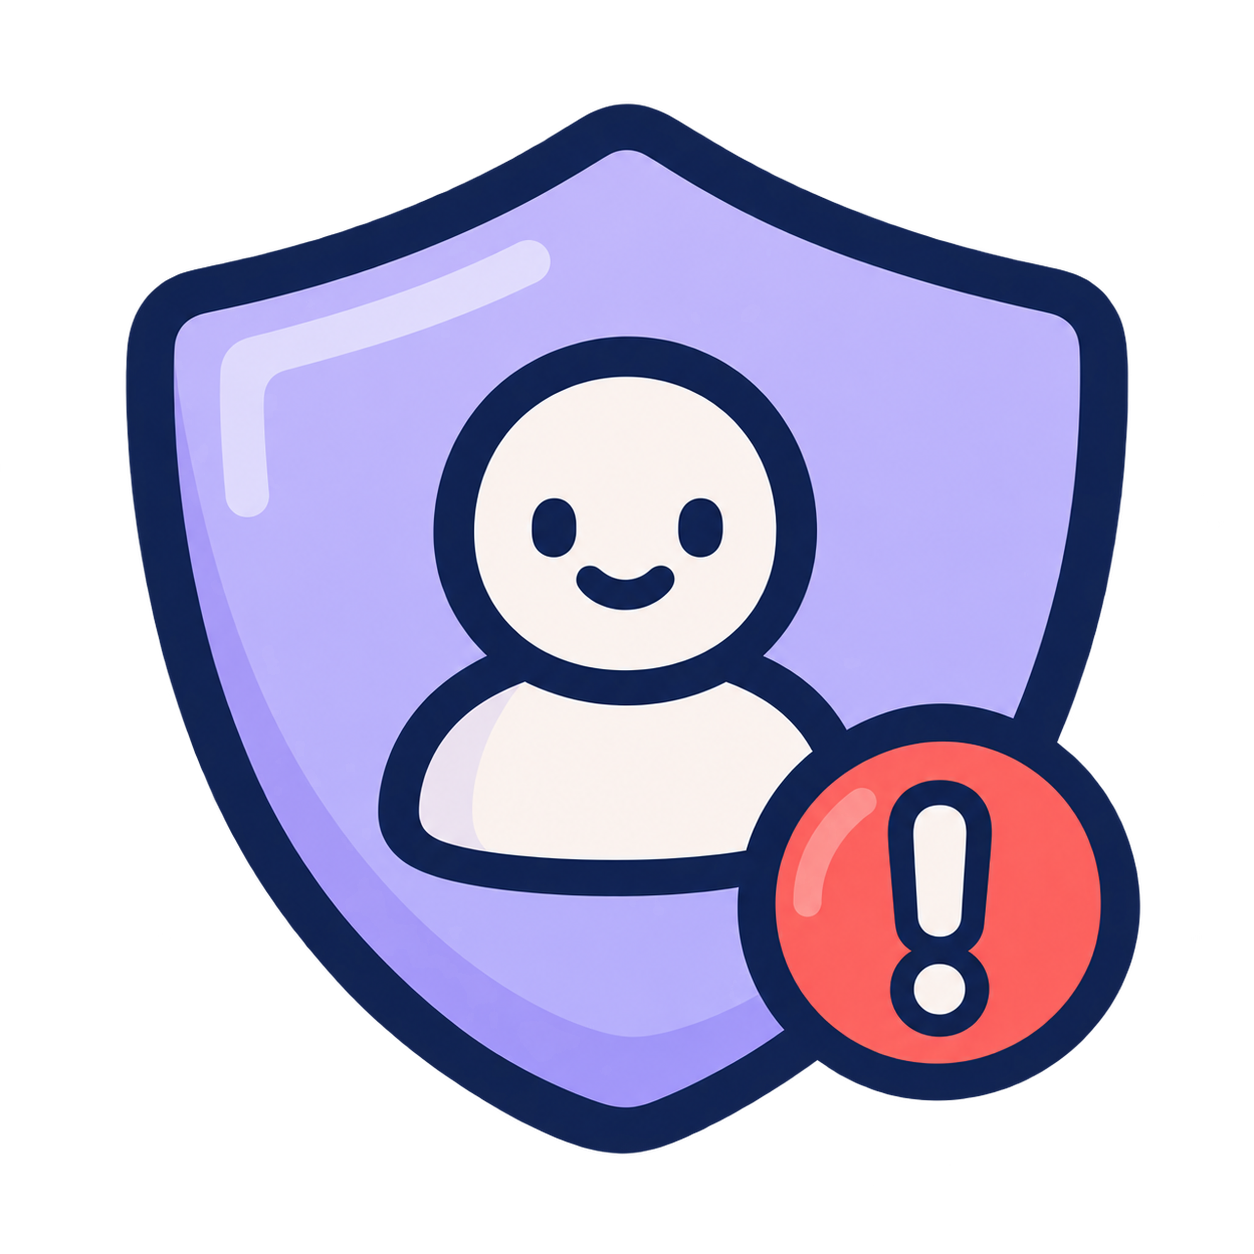
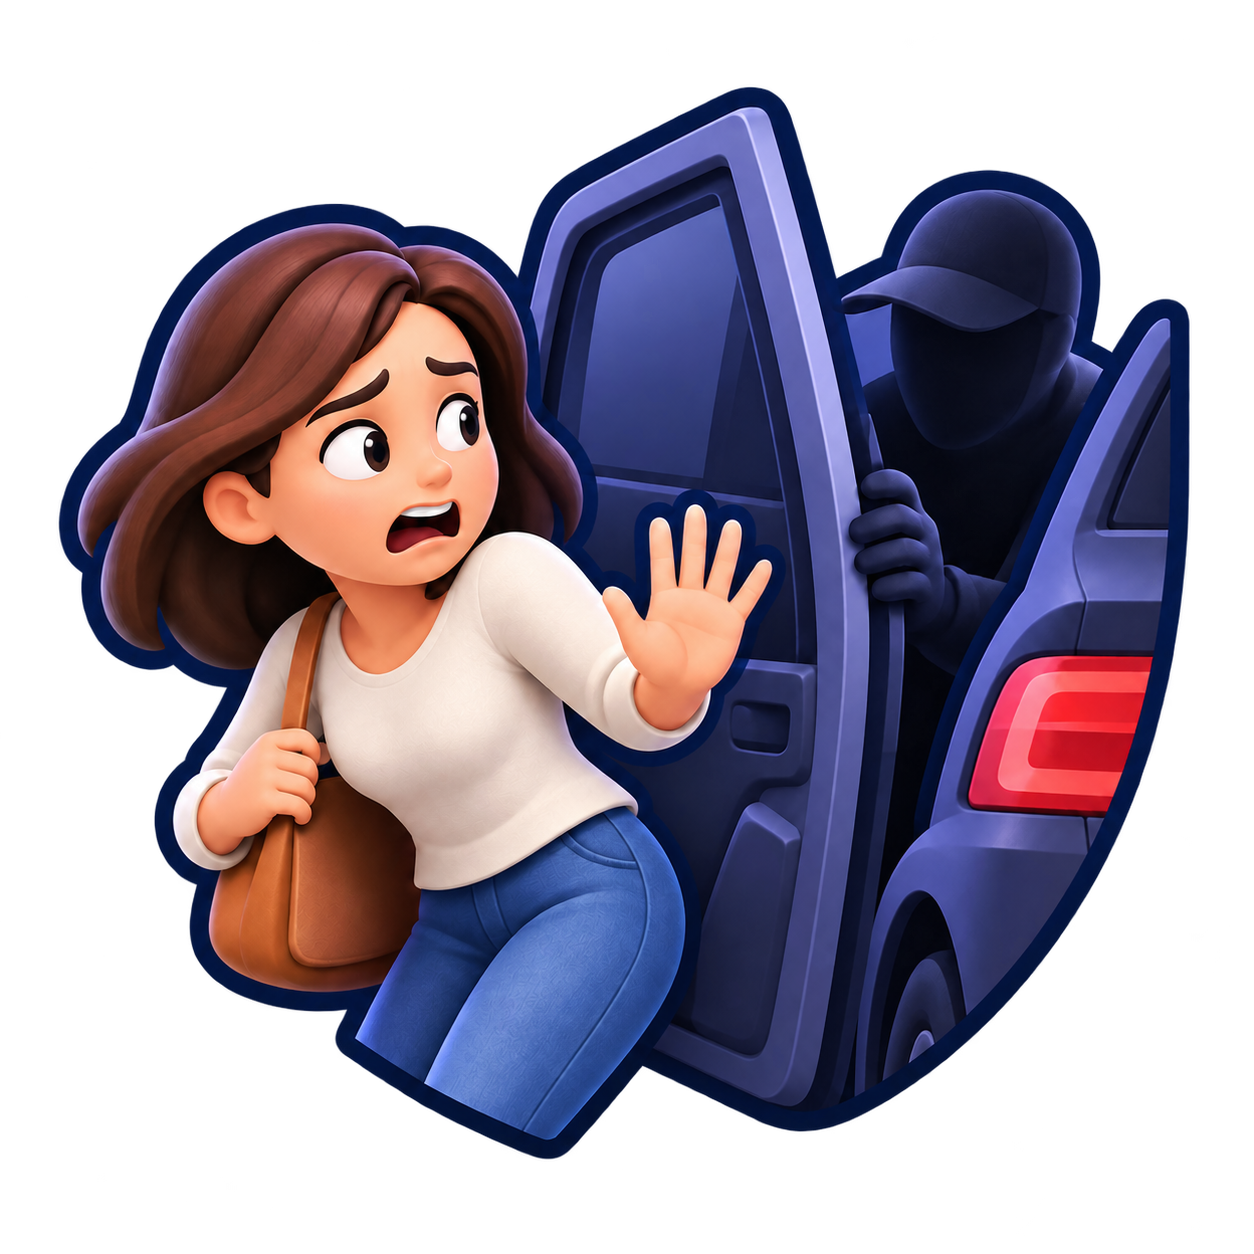
Add illustrated report markers to the map

diff --git a/src/components/map-document.ts b/src/components/map-document.ts
@@ -15,8 +15,15 @@ export const MAP_DOCUMENT = `<!doctype html>
   <style>
     html, body, #map { height: 100%; width: 100%; margin: 0; background: #E8EEF0; }
     .leaflet-control-attribution { font: 11px/1.5 system-ui, sans-serif; }
-    .accident-pin { border-radius: 50%; border: 3px solid white; box-sizing: border-box;
-      color: white; text-align: center; font: bold 16px/28px system-ui; box-shadow: 0 2px 8px #0006; }
+    .report-pin { position: relative; width: 54px; height: 62px; box-sizing: border-box;
+      border: 3px solid white; border-radius: 20px 20px 20px 6px; background: #fff;
+      box-shadow: 0 3px 12px #17203355; transform: rotate(-45deg); overflow: visible; }
+    .report-pin-image { width: 48px; height: 48px; display: block; object-fit: contain;
+      transform: rotate(45deg); }
+    .report-pin-count { position: absolute; top: -9px; right: -9px; min-width: 24px; height: 24px;
+      padding: 0 5px; box-sizing: border-box; border: 2px solid white; border-radius: 12px;
+      color: white; text-align: center; font: 800 12px/20px system-ui; transform: rotate(45deg);
+      box-shadow: 0 2px 5px #17203344; }
     .accident-choices { max-height: 220px; overflow-y: auto; display: grid; gap: 8px; }
     .accident-choice { min-height: 44px; padding: 10px; border: 1px solid #ddd;
       border-radius: 8px; background: white; text-align: left; cursor: pointer; }
@@ -135,16 +142,26 @@ export const MAP_DOCUMENT = `<!doctype html>
           else groups.push([report]);
         });
         groups.forEach(function (group) {
-          var report = group[0];
-          var pin = document.createElement('div');
-          pin.className = 'accident-pin';
-          pin.style.backgroundColor = group.reduce(function (highest, item) {
+          var report = group.reduce(function (highest, item) {
             return item.priority > highest.priority ? item : highest;
-          }, report).color;
-          pin.textContent = group.length > 1 ? String(group.length) : '!';
-          var label = group.length > 1 ? group.length + ' accidents dans cette zone' : report.title;
+          }, group[0]);
+          var pin = document.createElement('div');
+          pin.className = 'report-pin';
+          var pinImage = document.createElement('img');
+          pinImage.className = 'report-pin-image';
+          pinImage.src = report.illustrationUri;
+          pinImage.alt = '';
+          pin.appendChild(pinImage);
+          if (group.length > 1) {
+            var count = document.createElement('span');
+            count.className = 'report-pin-count';
+            count.style.backgroundColor = report.color;
+            count.textContent = String(group.length);
+            pin.appendChild(count);
+          }
+          var label = group.length > 1 ? group.length + ' signalements dans cette zone' : report.title;
           var marker = L.marker([report.latitude, report.longitude], {
-            icon: L.divIcon({ html: pin, className: '', iconSize: [34, 34], iconAnchor: [17, 17] }),
+            icon: L.divIcon({ html: pin, className: '', iconSize: [54, 62], iconAnchor: [10, 58] }),
             title: label,
             alt: label,
             keyboard: true

diff --git a/src/components/app-screen.tsx b/src/components/app-screen.tsx
@@ -7,9 +7,10 @@ import Animated, { FadeInDown, ReduceMotion } from 'react-native-reanimated';
 import { SafeAreaView } from 'react-native-safe-area-context';
 
 type AppScreenProps = {
-  eyebrow: string;
+  eyebrow?: string;
   title: string;
-  description: string;
+  description?: string;
+  hideIntro?: boolean;
   headerRight?: ReactNode;
   children?: ReactNode;
   contentContainerStyle?: StyleProp<ViewStyle>;
@@ -20,6 +21,7 @@ export function AppScreen({
   eyebrow,
   title,
   description,
+  hideIntro = false,
   headerRight,
   children,
   contentContainerStyle,
@@ -39,18 +41,18 @@ export function AppScreen({
         showsVerticalScrollIndicator={false}>
         <Animated.View
           entering={FadeInDown.duration(320).reduceMotion(ReduceMotion.System)}
-          style={styles.header}>
-          <View style={styles.heading}>
+          style={[styles.header, hideIntro && styles.compactHeader]}>
+          {!hideIntro && <View style={styles.heading}>
             <Text style={styles.eyebrow}>{eyebrow}</Text>
             <Text style={styles.title}>{title}</Text>
-          </View>
+          </View>}
           {headerRight}
         </Animated.View>
-        <Animated.Text
+        {!hideIntro && description && <Animated.Text
           entering={FadeInDown.delay(70).duration(320).reduceMotion(ReduceMotion.System)}
           style={styles.description}>
           {description}
-        </Animated.Text>
+        </Animated.Text>}
         <Animated.View
           entering={FadeInDown.delay(120).duration(340).reduceMotion(ReduceMotion.System)}>
           {children}
@@ -79,6 +81,9 @@ const styles = StyleSheet.create({
   },
   heading: {
     flex: 1,
+  },
+  compactHeader: {
+    justifyContent: 'flex-end',
   },
   eyebrow: {
     color: '#FF5A45',

diff --git a/src/components/map-frame.web.tsx b/src/components/map-frame.web.tsx
@@ -1,6 +1,7 @@
 import { useEffect, useRef } from 'react';
 
 import type { MapFrameProps } from './map-frame-props';
+import { illustratedMapMarkers } from './map-marker-assets';
 import { MAP_DOCUMENT, readMapMessage } from './map-document';
 
 export function MapFrame({
@@ -20,7 +21,12 @@ export function MapFrame({
       const message = readMapMessage(event.data);
       if (message?.status === 'ready') {
         frame.current?.contentWindow?.postMessage(
-          { source: 'stopaccidents-app', markers, location, placeFocus },
+          {
+            source: 'stopaccidents-app',
+            markers: illustratedMapMarkers(markers),
+            location,
+            placeFocus,
+          },
           window.location.origin,
         );
         onLoad();
@@ -39,7 +45,7 @@ export function MapFrame({
 
   useEffect(() => {
     frame.current?.contentWindow?.postMessage(
-      { source: 'stopaccidents-app', markers },
+      { source: 'stopaccidents-app', markers: illustratedMapMarkers(markers) },
       window.location.origin,
     );
   }, [markers]);

diff --git a/src/features/safety-report/map-markers.ts b/src/features/safety-report/map-markers.ts
@@ -8,7 +8,7 @@ import {
 import { reportSelection, type SafetyReportSummary } from './read';
 
 export function safetyReportMarkers(reports: SafetyReportSummary[]): AccidentMarker[] {
-  return reports.flatMap((report) => {
+  return reports.flatMap((report): AccidentMarker[] => {
     const { latitude, longitude } = report;
     if (
       typeof latitude !== 'number' ||
@@ -31,6 +31,7 @@ export function safetyReportMarkers(reports: SafetyReportSummary[]): AccidentMar
           longitude,
           color: '#7C3FA0',
           priority: 5,
+          illustration: 'kidnapping',
           title: `Enlèvement · ${formatAccidentDate(report.created_at)}`,
         },
       ];
@@ -50,6 +51,7 @@ export function safetyReportMarkers(reports: SafetyReportSummary[]): AccidentMar
           serious: 3,
           fatal: 4,
         }[report.completed_step < 3 ? 'unknown' : report.severity],
+        illustration: 'accident',
         title: `${accidentTypeLabel(report)} · ${severity.label} · ${formatAccidentDate(report.created_at)}`,
       },
     ];

diff --git a/src/components/map-frame.tsx b/src/components/map-frame.tsx
@@ -3,6 +3,7 @@ import { useCallback, useEffect, useRef } from 'react';
 import { WebView } from 'react-native-webview';
 
 import type { MapFrameProps } from './map-frame-props';
+import { illustratedMapMarkers } from './map-marker-assets';
 import { MAP_DOCUMENT, readMapMessage } from './map-document';
 
 const source = { html: MAP_DOCUMENT };
@@ -18,7 +19,7 @@ export function MapFrame({
 }: MapFrameProps) {
   const frame = useRef<WebView>(null);
   const updateMarkers = useCallback(() => {
-    const json = JSON.stringify(markers)
+    const json = JSON.stringify(illustratedMapMarkers(markers))
       .replace(/</g, '\\u003c')
       .replace(/\u2028/g, '\\u2028')
       .replace(/\u2029/g, '\\u2029');

diff --git a/src/components/map-marker-assets.ts b/src/components/map-marker-assets.ts
@@ -1,0 +1,19 @@
+import { Image } from 'react-native';
+
+import type { AccidentMarker } from './map-frame-props';
+
+const markerSources = {
+  accident: require('../../assets/images/report-illustrations/accident.png'),
+  kidnapping: require('../../assets/images/report-illustrations/kidnapping.png'),
+} as const;
+
+export type IllustratedMapMarker = AccidentMarker & { illustrationUri: string };
+
+export function illustratedMapMarkers(
+  markers: AccidentMarker[],
+): IllustratedMapMarker[] {
+  return markers.map((marker) => ({
+    ...marker,
+    illustrationUri: Image.resolveAssetSource(markerSources[marker.illustration]).uri,
+  }));
+}

diff --git a/src/app/index.tsx b/src/app/index.tsx
@@ -96,9 +96,8 @@ export default function HomeScreen() {
   return (
     <>
       <AppScreen
-        eyebrow="STOP ACCIDENTS"
         title="Accueil"
-        description="Votre espace de prévention et de sécurité routière."
+        hideIntro
         contentContainerStyle={styles.homeContent}
         onScroll={handleScroll}
         headerRight={
@@ -198,6 +197,7 @@ const styles = StyleSheet.create({
     justifyContent: 'center',
   },
   homeContent: {
+    paddingTop: 16,
     minHeight: '115%',
     width: '100%',
     maxWidth: 688,

diff --git a/src/features/accident-report/map-markers.ts b/src/features/accident-report/map-markers.ts
@@ -35,6 +35,7 @@ export function accidentMarkers(reports: AccidentSummary[]): AccidentMarker[] {
           serious: 3,
           fatal: 4,
         }[report.completed_step < 3 ? 'unknown' : report.severity],
+        illustration: 'accident',
         title: `${accidentTypeLabel(report)} · ${severity.label} · ${formatAccidentDate(report.created_at)}`,
       },
     ];

diff --git a/src/components/latest-accident-card.tsx b/src/components/latest-accident-card.tsx
@@ -203,7 +203,7 @@ export function LatestAccidentCard({
 }
 
 const styles = StyleSheet.create({
-  section: { marginTop: 30, width: '100%', maxWidth: 640, alignSelf: 'center' },
+  section: { marginTop: 12, width: '100%', maxWidth: 640, alignSelf: 'center' },
   sectionHeader: {
     flexDirection: 'row',
     alignItems: 'center',

diff --git a/src/components/map-frame-props.ts b/src/components/map-frame-props.ts
@@ -5,6 +5,7 @@ export type AccidentMarker = {
   title: string;
   color: string;
   priority: number;
+  illustration: 'accident' | 'kidnapping';
 };
 
 export const MAP_PAGE_URL =

diff --git a/assets/images/report-illustrations/PROMPTS.md b/assets/images/report-illustrations/PROMPTS.md
@@ -12,7 +12,9 @@ Subject: two small coral-red and pale blue cars in a minor collision, tiny amber
 
 ## kidnapping.png
 
-Subject: a lavender protective shield with a simple dark navy person silhouette in its center, small coral alert badge with exclamation symbol at lower right. Represents an abduction safety report respectfully, no villain, no weapons, no comedy.
+Use case: style-transfer and background-extraction.
+
+Subject: an alarmed adult recoiling with one defensive hand raised beside an open vehicle door, with a threatening figure kept in shadow behind the door. Polished semi-realistic 3D mobile illustration, expressive and urgent without graphic violence. Coral alert accents, dark navy outlines, muted lavender vehicle, genuine transparent background. No text, logo, watermark, weapon, blood, restraint, or physical assault.
 
 ## success.png
 
